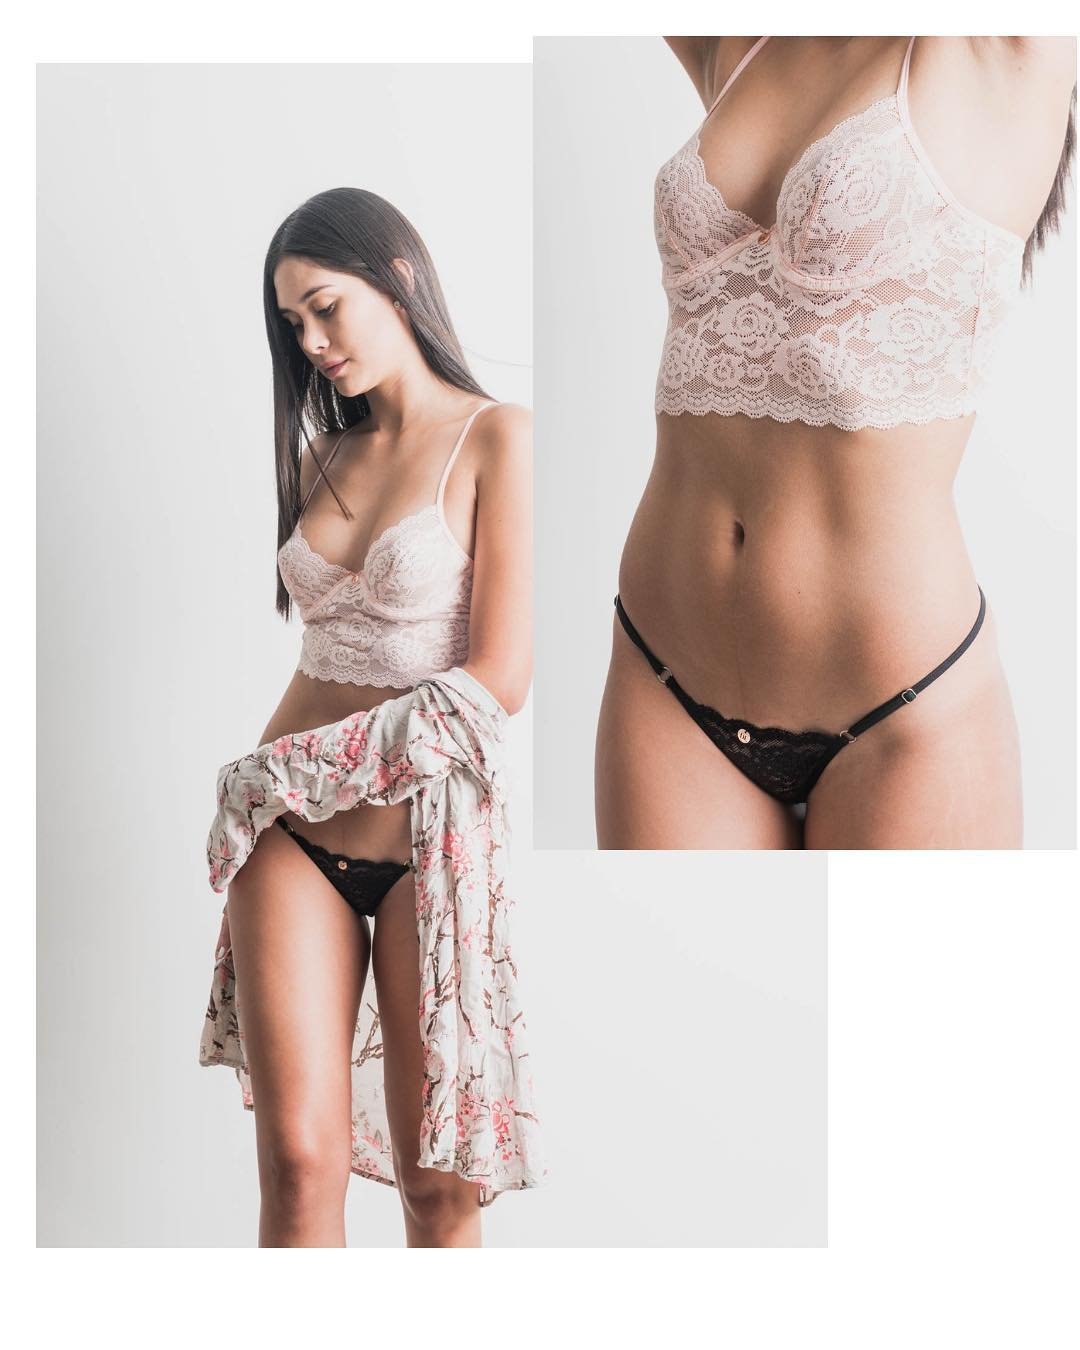
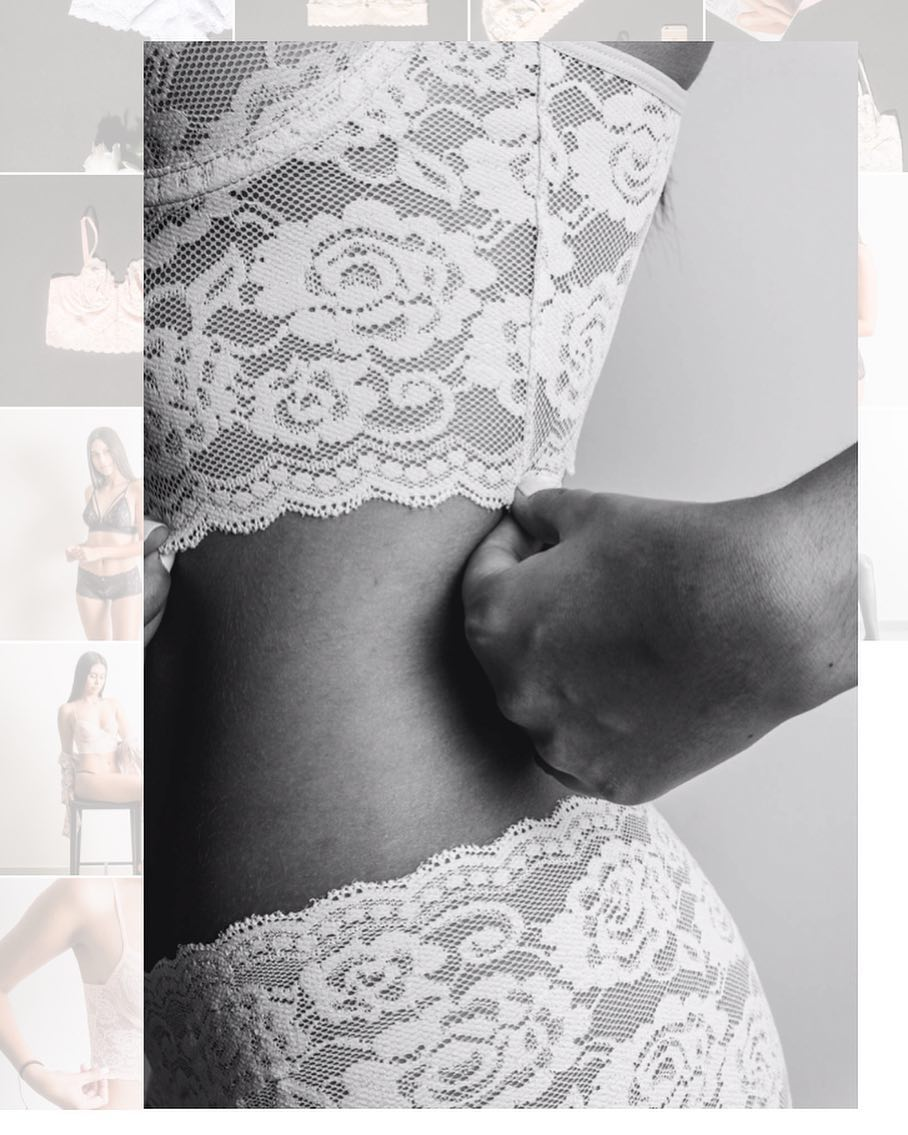
Restore e print(error) and Digital Fashion posts; refresh portfolio images
- e print(error): add original screenshot and follow-up text
- Digital Fashion: restore full article text, switch to standard layout
- Replace hero images for Donna Lee, PROVOK Art Studio, Dalexarte
  and Tron awesomeWM with the originals from the previous site

Claude-Session: https://claude.ai/code/session_01U5XSziit7E5dcpmNjpETdx

diff --git a/src/content/blog/digital-fashion.md b/src/content/blog/digital-fashion.md
@@ -3,6 +3,31 @@ title: "Digital Fashion: The Next Frontier in Fashion"
 date: 2018-07-30
 categories: ["ar", "fashion", "technology"]
 tags: ["3d", "ar", "fashion"]
-layout: micro
+layout: standard
 ---
 
+On September 13, 2021, Kim Kardashian donned an [all-black attire by Balenciaga](http://www.vogue.com/article/kim-kardashian-balenciaga-met-gala-2021-look?ref=thedigitalspeaker.com) at the Met Gala. Her stark black Balenciaga haute couture gown with matching mask drew a lot of conversation online, even within the Fortnite community. Multiple [Twitter](https://twitter.com/search?q=kim+kardashian+unlocked+character&src=typed_query&f=top&ref=thedigitalspeaker.com) users from within the Fortnite community saw a close comparison between her attire and locked characters within the popular video game. They wondered why she was dressed like a video game character you haven’t unlocked yet. The rumors came clear when, a few days later, Balenciaga announced a collaboration with Epic Games, the developer of Fortnite, to bring the fashion house’s signature clothing and apparel into the game.
+
+Haute couture and the fashion industry have entered the gaming industry, and we have only just gotten started. Businesses are always looking for ways to carve out a lucrative market share and digital fashion is a niche market that has enormous potential. The possibilities for digital fashion are as limitless as the potential for the metaverse, and it will be one of the biggest industries of the immersive internet in the coming decade.
+
+## What is Digital Fashion
+
+Digital fashion is a relatively new industry that is snowballing. Digital fashion uses virtual avatars and digital models to sell (digital) clothing and accessories. This means customers can browse items online, try them in-store, and even buy them without leaving the house.
+
+In the physical world, fashion designers are limited by the available fabrics and the laws of physics when they design their clothes. These barriers do not apply in the metaverse. Digital fashion designers can come up with any type of garment or fabric to create exclusive and exotic designs never seen before.
+
+The trend is an idea that started with the rise of 3-D printing, but it was not until recently that technology caught up with the metaverse to make digital fashion a reality. Now, with augmented reality and virtual reality, you can virtually try on clothes without leaving your house — or even getting up from your computer chair.
+
+### Digital Fashion and Retail and Ecommerce
+
+Virtual retail experiences provide the opportunity to immerse customers in a simulated environment that goes beyond a product display into a personalized experience.
+
+The retail industry has taken a considerable step toward innovation with virtual reality advancements allowing shoppers to experience products before they buy them.
+
+Shoppers can roam around a store or even walk through [an entire mall](https://themall.io/?ref=thedigitalspeaker.com) without leaving their homes or offices. This provides an excellent way for retailers to reach out to customers who prefer online shopping over going into actual stores due to convenience and low business maintenance costs.
+
+The integration of [AR into eCommerce](https://www.thecommerceshop.com/blog/fashion-ecommerce-augmented-reality/?ref=thedigitalspeaker.com) has allowed users to experience products in virtual reality before they buy them. The most popular example is [ASOS’s *See My Fit* system](https://www.bustle.com/p/asos-new-see-my-fit-tool-lets-you-view-clothes-on-16-different-body-shapes-21126252?ref=thedigitalspeaker.com) which will enable shoppers to try on different outfits by simply uploading their photos and choosing from a variety of looks suggested by the app.
+
+More about this article written by [Dr Mark van Rijmenam, CSP](https://www.thedigitalspeaker.com/author/mark-van-rijmenam/)
+
+<https://www.thedigitalspeaker.com/digital-fashion-next-frontier-fashion/>

diff --git a/src/content/blog/e-print-error.md b/src/content/blog/e-print-error.md
@@ -3,7 +3,10 @@ title: "e print(error)"
 date: 2023-03-06
 categories: ["ios", "technology"]
 tags: ["xcode"]
+heroImage: "../../assets/blog/e-print-error/lldb-print-error.jpeg"
 layout: micro
 ---
 
-When Xcode is not really helping you, try using print to read out a variable 👌🏻
+When Xcode is not really helping you, try out using print to read out a variable 👌🏻
+
+There's also «p dump(variableOfInterest)» which can sometimes give you even more info than p alone would, or I think print!

diff --git a/src/content/portfolio/tron-awesomewm.md b/src/content/portfolio/tron-awesomewm.md
@@ -7,7 +7,7 @@ tags: ["Linux", "Technology"]
 date: 2015-04-07
 link: "https://github.com/diegosalazarCO/awesome-wm"
 linkLabel: "Source on GitHub"
-heroImage: "../../assets/portfolio/tron-awesomewm.png"
+heroImage: "../../assets/portfolio/tron-awesomewm.jpeg"
 order: 9
 ---
 
